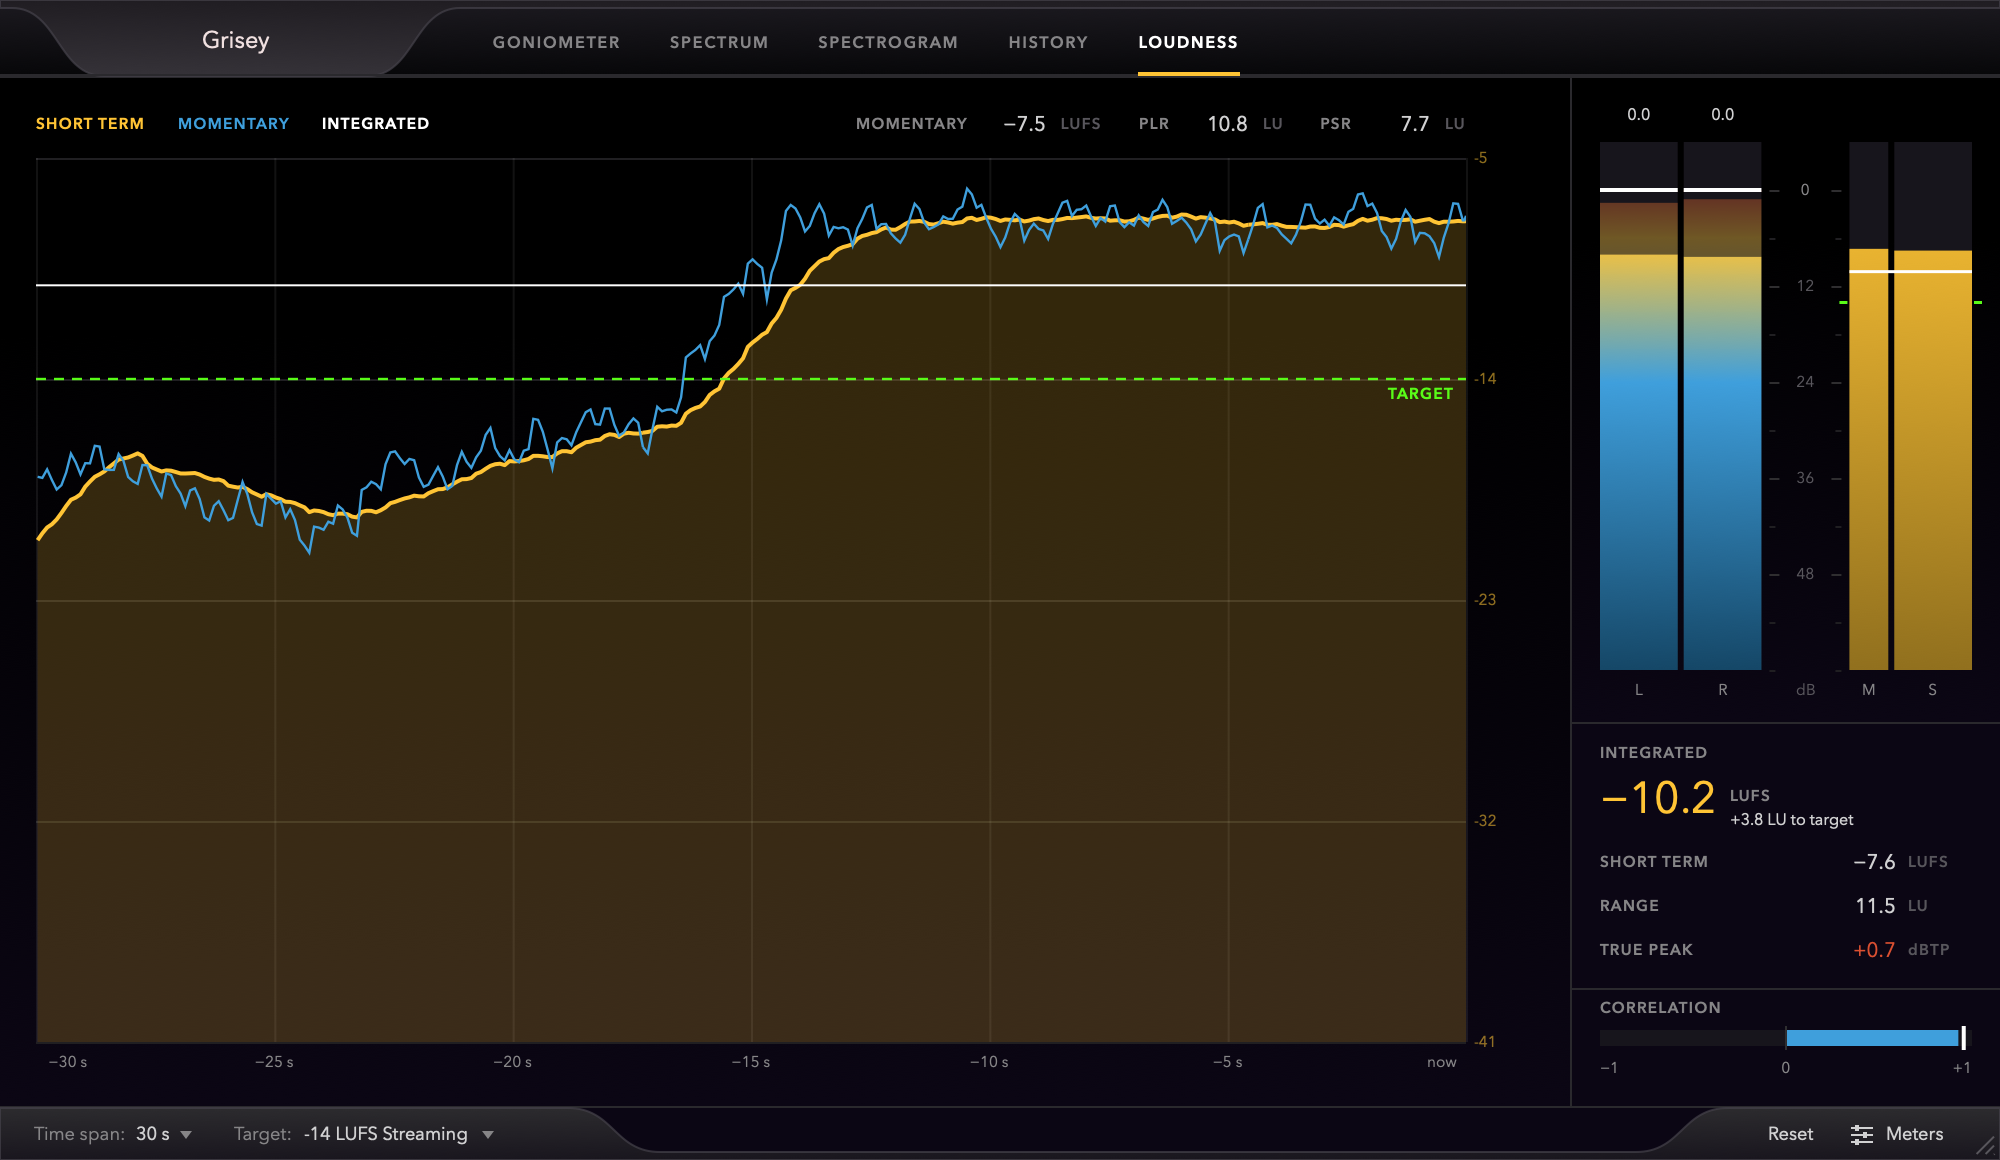
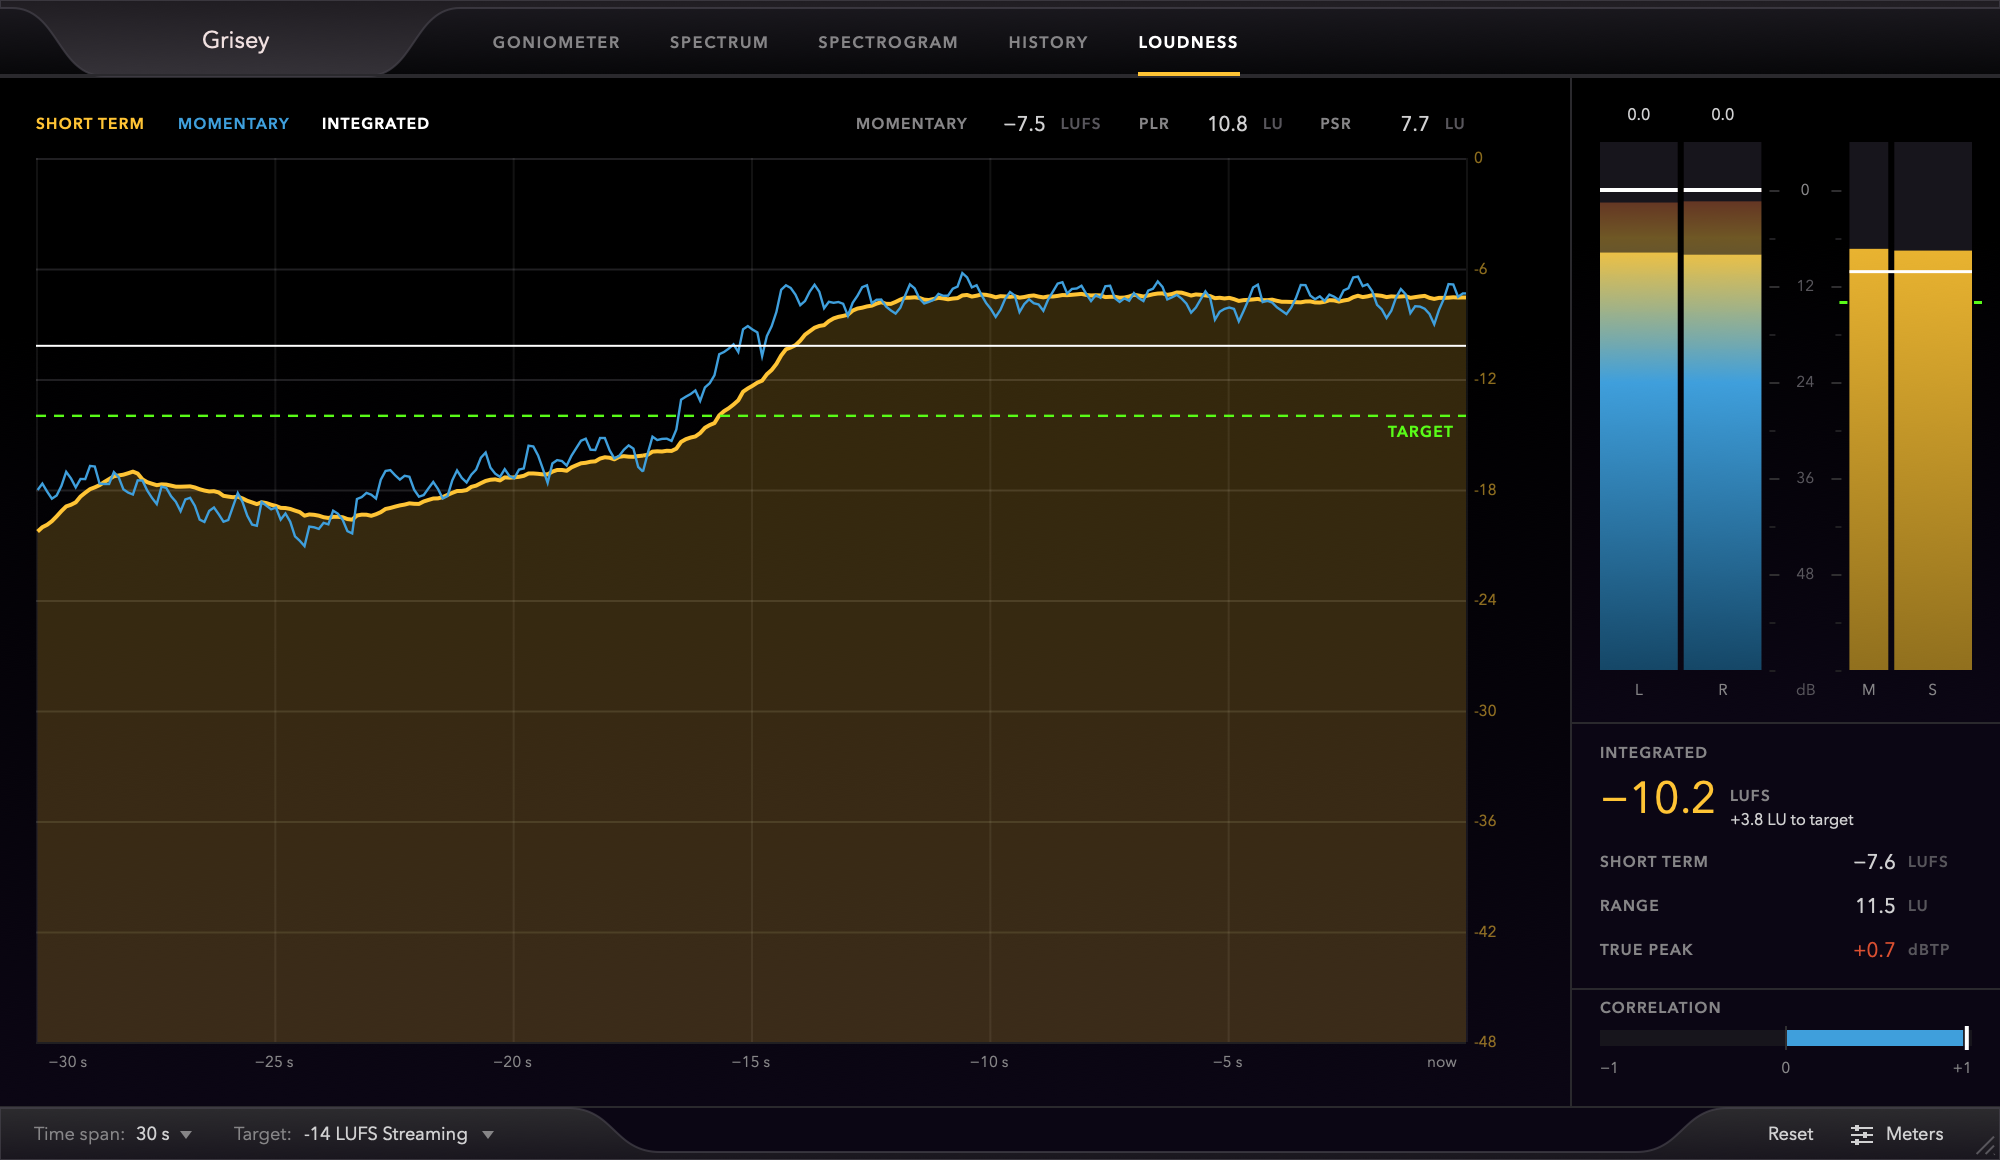
Let the loudness graph reach up to full scale
The graph reached from 9 LU above the target, like the EBU +9 scale, so with a
target of -14 its top was -5 LUFS, and the momentary loudness of a loud master
went off the top of it. It now reaches from 0 down to -48 LUFS whatever the
target is, with a line every 6 LU, so nothing is cut off, a target of -23 is in
the middle of it, and the scale does not move when the target is changed.

Changed region(s): [[0.031, 0.1552, 0.744, 0.4345], [0.0, 0.3724, 0.186, 0.4655], [0.682, 0.3103, 0.744, 0.3724]]

diff --git a/Source/Views/LoudnessView.cpp b/Source/Views/LoudnessView.cpp
@@ -76,12 +76,6 @@ void LoudnessView::setSpan(float seconds)
     }
 }
 
-float LoudnessView::getReferenceLufs() const
-{
-    // Without a target the scale sits where it would for EBU R 128
-    return target < 0.f ? target : -23.f;
-}
-
 void LoudnessView::paintHeader(juce::Graphics& g, juce::Rectangle<int> area)
 {
     // The header ends where the plot does, short of the labels of the scale
@@ -154,15 +148,14 @@ void LoudnessView::paintHeader(juce::Graphics& g, juce::Rectangle<int> area)
 
 void LoudnessView::paintHistory(juce::Graphics& g, juce::Rectangle<int> area)
 {
-    const float reference = getReferenceLufs();
-    const float top = reference + rangeAboveTarget, bottom = reference - rangeBelowTarget;
+    const float top = maxLufs, bottom = minLufs;
 
     auto plot = area.withTrimmedRight(scaleWidth).withTrimmedBottom(18).toFloat();
     auto yOf = [&](float lufs) { return juce::jmap(juce::jlimit(bottom, top, lufs), bottom, top, plot.getBottom(), plot.getY()); };
 
-    // Draw a grid line every 9 LU, and label the levels down the right
+    // Draw a grid line every 6 LU, and label the levels down the right
     g.setFont(Theme::font(10.5f));
-    for (float lufs = bottom; lufs <= top + 0.01f; lufs += 9.f)
+    for (float lufs = bottom; lufs <= top + 0.01f; lufs += gridStepLu)
     {
         const float y = yOf(lufs);
         g.setColour(Theme::grid);

diff --git a/Source/Views/LoudnessView.h b/Source/Views/LoudnessView.h
@@ -14,9 +14,12 @@
 class LoudnessView : public juce::Component
 {
 public:
-    // The graph reaches from 27 LU below the target to 9 LU above it, like the EBU +9 scale
-    static constexpr float rangeBelowTarget = 27.f;
-    static constexpr float rangeAboveTarget = 9.f;
+    // The graph reaches from full scale down, whatever the target is. It used to reach from 9 LU above
+    // the target, like the EBU +9 scale, which a loud master went off the top of: with a target of -14
+    // the top was -5, and the momentary loudness of a modern master goes above that.
+    static constexpr float maxLufs = 0.f;
+    static constexpr float minLufs = -48.f;
+    static constexpr float gridStepLu = 6.f;
 
     LoudnessView();
 
@@ -50,9 +53,6 @@ private:
 
     // The room to the right of the plot for the labels of its scale
     static constexpr int scaleWidth = 34;
-
-    // The loudness at the middle of the graph's scale
-    float getReferenceLufs() const;
 
     LoudnessMeter::Readings readings;
     float maxTruePeak = -200.f;
